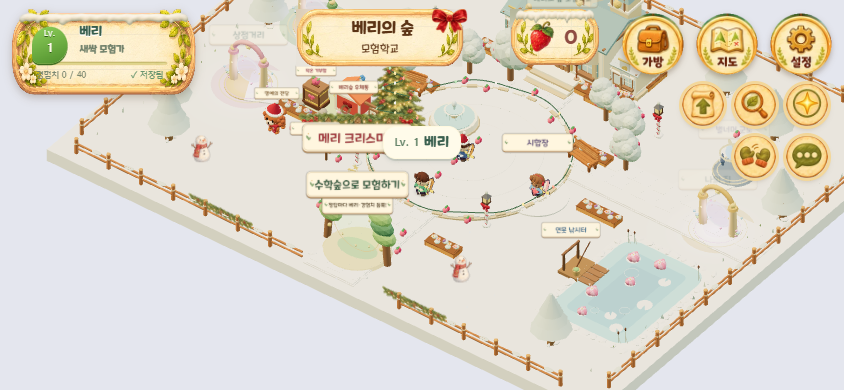
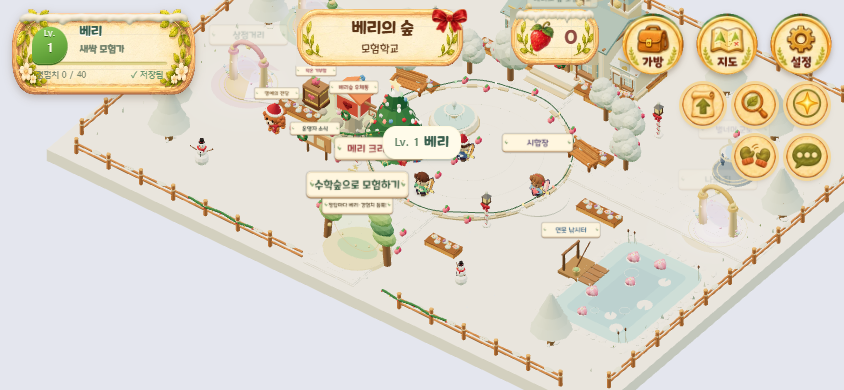
크리스마스 장식을 평평한 그림에서 3D 모형으로: 트리(눈 덮인 4단·오너먼트·입체 별·전구), 눈사람, 선물 상자, 화환, 가랜드
카메라가 움직이면 종이처럼 보이던 그림(스프라이트)을 모두 걷어냄.

Claude-Session: https://claude.ai/code/session_016DWjZzigAA7ykfC5rwQE2M

diff --git a/src/christmas-overlay.ts b/src/christmas-overlay.ts
@@ -17,7 +17,6 @@ export class ChristmasOverlay {
   private bulbs: T.MeshStandardMaterial[] = [];
   private snow: T.InstancedMesh;
   private dummy = new T.Object3D();
-  private treeDecor?: T.Group;
   private camera: T.Camera;
   private reduced = matchMedia('(prefers-reduced-motion: reduce)').matches;
 
@@ -67,20 +66,72 @@ export class ChristmasOverlay {
       }
       this.batch(accessory); this.attachments.push(accessory);
     });
-    const loader = new T.TextureLoader(), maps = new Map<string, T.Texture>();
-    const mapFor = (name: string) => {
-      let map = maps.get(name);
-      if (!map) { map = loader.load(`${import.meta.env.BASE_URL}art/christmas/${name}.webp`); map.colorSpace = T.SRGBColorSpace; this.textures.push(map); maps.set(name, map); }
-      return map;
+    // 2026-11-27: 평평한 그림(스프라이트) 대신 광장 나무와 같은 로우폴리 3D 모형으로 만들어요.
+    const flat = (color: number, emissive = 0, glow = 0) => {
+      const m = new T.MeshStandardMaterial({ color, roughness: .9, flatShading: true });
+      if (emissive) { m.emissive.setHex(emissive); m.emissiveIntensity = glow; }
+      this.materials.push(m); return m;
     };
-    const sprite = (name: string, x: number, y: number, z: number, w: number, h: number) => {
-      const material = new T.SpriteMaterial({ map: mapFor(name), transparent: true, alphaTest: .02, depthWrite: false, toneMapped: false }); this.materials.push(material);
-      const object = new T.Sprite(material); object.name = `christmas-${name}`; object.center.set(.5, 0);
-      object.position.set(x, y, z); object.scale.set(w, h, 1); this.root.add(object); return object;
+    const pine = flat(0x3f7a4a), pineDark = flat(0x2f6440), snowCap = flat(0xfbfbf7), bark = flat(0x7a5434);
+    const coal = flat(0x2b2a2e), carrot = flat(0xe8833a), scarfRed = flat(0xc23a45), scarfCream = flat(0xf6ead2);
+    const ornaments = [flat(0xd33c48, 0x5a0d14, .25), flat(0xf2c14e, 0x6a4a08, .35), flat(0x5f9fd8, 0x123a5e, .25), flat(0xf4f1ea)];
+    const giftColors = [flat(0xd9534f), flat(0x4f9a6a), flat(0x5b8fd6), flat(0xf0c14b), flat(0xb86fd0)];
+    const ribbonGold = flat(0xf6d77a), ribbonRed = flat(0xc8303e);
+    const place = (o: T.Object3D, x: number, y: number, z: number, parent: T.Object3D = this.root) => { o.position.set(x, y, z); parent.add(o); return o; };
+    const tree3d = (x: number, z: number, s: number) => {
+      const g = new T.Group(); g.name = 'christmas-tree'; place(g, x, .1, z); g.scale.setScalar(s);
+      this.mesh(g, new T.CylinderGeometry(.22, .3, .9, 7), bark, 0, .45, 0);
+      const tiers = [[1.55, 1.5, .9], [1.25, 1.35, 1.75], [.95, 1.2, 2.5], [.62, 1.05, 3.2]];
+      tiers.forEach(([r, h, y], i) => {
+        const cone = this.mesh(g, new T.ConeGeometry(r, h, 9), i % 2 ? pineDark : pine, 0, y, 0); cone.rotation.y = i * .35;
+        const cap = this.mesh(g, new T.ConeGeometry(r * .55, h * .38, 9), snowCap, 0, y + h * .33, 0); cap.rotation.y = i * .35;
+        const n = 5 + (3 - i) * 2;
+        for (let k = 0; k < n; k++) {
+          const a = k / n * Math.PI * 2 + i * .6, rr = r * .78;
+          ball(g, ornaments[(k + i) % ornaments.length], Math.cos(a) * rr, y - h * .28, Math.sin(a) * rr, .11);
+        }
+      });
+      return g;
+    };
+    const snowman3d = (x: number, z: number, s: number, turn: number) => {
+      const g = new T.Group(); g.name = 'christmas-snowman'; place(g, x, 0, z); g.scale.setScalar(s); g.rotation.y = turn;
+      ball(g, snowCap, 0, .55, 0, .58); ball(g, snowCap, 0, 1.3, 0, .42); ball(g, snowCap, 0, 1.92, 0, .3);
+      for (const side of [-1, 1]) ball(g, coal, side * .1, 2, .26, .04);
+      for (const y of [1.45, 1.28, 1.1]) ball(g, coal, 0, y, .41, .045);
+      const nose = this.mesh(g, new T.ConeGeometry(.055, .3, 6), carrot, 0, 1.93, .4); nose.rotation.x = Math.PI / 2;
+      const scarf = this.mesh(g, new T.TorusGeometry(.3, .08, 6, 14), scarfRed, 0, 1.66, 0); scarf.rotation.x = Math.PI / 2;
+      this.mesh(g, new T.BoxGeometry(.16, .42, .08), scarfRed, .18, 1.45, .25).rotation.z = -.18;
+      this.mesh(g, new T.BoxGeometry(.17, .05, .085), scarfCream, .19, 1.33, .25);
+      for (const side of [-1, 1]) {
+        const arm = this.mesh(g, new T.CylinderGeometry(.025, .035, .75, 5), bark, side * .62, 1.45, 0); arm.rotation.z = side * -1.05;
+        const twig = this.mesh(g, new T.CylinderGeometry(.015, .02, .22, 4), bark, side * .88, 1.68, 0); twig.rotation.z = side * -.3;
+      }
+      this.mesh(g, new T.CylinderGeometry(.24, .24, .05, 10), coal, 0, 2.19, 0);
+      this.mesh(g, new T.CylinderGeometry(.16, .17, .28, 10), coal, 0, 2.34, 0);
+      this.mesh(g, new T.CylinderGeometry(.171, .171, .06, 10), scarfRed, 0, 2.25, 0);
+      return g;
+    };
+    const gift3d = (x: number, z: number, w: number, h: number, d: number, color: number, turn: number) => {
+      const g = new T.Group(); g.name = 'christmas-gift'; place(g, x, 0, z); g.rotation.y = turn;
+      this.mesh(g, new T.BoxGeometry(w, h, d), giftColors[color % giftColors.length], 0, h / 2, 0);
+      const rib = color % 2 ? ribbonGold : ribbonRed;
+      this.mesh(g, new T.BoxGeometry(w + .02, h + .02, d * .18), rib, 0, h / 2, 0);
+      this.mesh(g, new T.BoxGeometry(w * .18, h + .02, d + .02), rib, 0, h / 2, 0);
+      for (const side of [-1, 1]) { const loop = this.mesh(g, new T.TorusGeometry(.15 * w, .03, 5, 10), rib, side * .13 * w, h + .06, 0); loop.rotation.y = Math.PI / 2; loop.rotation.z = side * .5; }
+      return g;
+    };
+    const wreath3d = (x: number, y: number, z: number, size: number, parent: T.Object3D = this.root) => {
+      const g = new T.Group(); g.name = 'christmas-wreath'; place(g, x, y, z, parent); g.scale.setScalar(size);
+      this.mesh(g, new T.TorusGeometry(.36, .13, 7, 16), pine);
+      for (let k = 0; k < 10; k++) { const a = k / 10 * Math.PI * 2; ball(g, k % 2 ? ornaments[0] : pineDark, Math.cos(a) * .36, Math.sin(a) * .36, .1, k % 2 ? .06 : .09); }
+      for (const side of [-1, 1]) ball(g, red, side * .11, -.36, .14, .1, .07, .05).rotation.z = side * .4;
+      ball(g, red, 0, -.36, .16, .05);
+      return g;
     };
     const garland = (x: number, y: number, z: number, width: number, parent: T.Object3D = this.root) => {
-      const material = new T.MeshBasicMaterial({ map: mapFor('garland'), transparent: true, alphaTest: .04, depthWrite: false, side: T.DoubleSide, toneMapped: false }); this.materials.push(material);
-      this.mesh(parent, new T.PlaneGeometry(width, width / 6.4), material, x, y, z).name = 'christmas-garland';
+      const pts = Array.from({ length: 25 }, (_, i) => { const s = i / 24; return new T.Vector3(x - width / 2 + s * width, y - Math.sin(s * Math.PI * 2) ** 2 * .18, z); });
+      const rope = this.mesh(parent, new T.TubeGeometry(new T.CatmullRomCurve3(pts), 48, .09, 6, false), pine); rope.name = 'christmas-garland';
+      pts.forEach((pt, i) => { if (i % 3 === 0) ball(parent, i % 2 ? ornaments[1] : ornaments[0], pt.x, pt.y - .06, pt.z + .08, .06); });
     };
     const bow = (x: number, y: number, z: number, size: number) => {
       for (const side of [-1, 1]) {
@@ -105,26 +156,24 @@ export class ChristmasOverlay {
       bow(x, 2.05, z + .17, .8);
     }
     if (options.market) {
-      for (const shop of MARKET_SHOPS) sprite('wreath', shop.x, 1.35, shop.z + 1.95 * MARKET_SCALE, .85, .85);
-      sprite('wreath', -14.5, 1.8, 11.75, 1.05, 1.05);
+      for (const shop of MARKET_SHOPS) wreath3d(shop.x, 1.35, shop.z + 1.95 * MARKET_SCALE, .95);
+      wreath3d(-14.5, 1.8, 11.75, 1.15);
     } else {
-      sprite('tree', -4.9, .25, 4.8, 4.8, 7.2);
-      // Match the sprite's camera-facing up direction, including its illustrated star.
-      const treeDecor = this.treeDecor = new T.Group(); treeDecor.name = 'christmas-tree-lights'; treeDecor.position.set(-4.9, .25, 4.8); treeDecor.quaternion.copy(options.camera.quaternion); this.root.add(treeDecor);
-      sprite('gifts', -4.6, .27, 6, 2.7, 1.55); sprite('gifts', -6.5, .25, 4.6, 1.6, .95);
-      sprite('wreath', POSTBOX_SPOT.x + .2, 2.35, POSTBOX_SPOT.z + 1.25, .8, .8);
-      sprite('wreath', VILLAGE_SPOTS.notice.x - 1.1, 1.65, VILLAGE_SPOTS.notice.z + .38, .9, .9);
-      sprite('wreath', 0, 1.7, -8.95, 1.25, 1.25);
-      sprite('snowman', -15.3, .12, 14.9, 1.6, 2); sprite('snowman', 8.5, .12, 14.5, 1.6, 2);
+      tree3d(-4.9, 4.8, 1.85);
+      const treeDecor = new T.Group(); treeDecor.name = 'christmas-tree-lights'; treeDecor.position.set(-4.9, .1, 4.8); treeDecor.scale.setScalar(1.85); this.root.add(treeDecor);
+      [[-3.3, 6.1, .7, .55, .6, 0, .3], [-4.2, 6.9, .55, .45, .55, 1, -.4], [-2.6, 5.2, .5, .7, .5, 2, .8], [-6.6, 5.9, .65, .5, .6, 3, .2], [-5.6, 6.8, .45, .35, .45, 4, -.6]].forEach(([gx, gz, w, h, d, c, r]) => gift3d(gx, gz, w, h, d, c, r));
+      wreath3d(POSTBOX_SPOT.x + .2, 2.35, POSTBOX_SPOT.z + 1.25, .9);
+      wreath3d(VILLAGE_SPOTS.notice.x - 1.1, 1.65, VILLAGE_SPOTS.notice.z + .38, 1);
+      wreath3d(0, 1.7, -8.95, 1.35);
+      snowman3d(-15.3, 14.9, 1.45, .4); snowman3d(8.5, 14.5, 1.35, -.5);
       for (const x of [-10, 8]) garland(x, 1.05, 19.6, 6);
       // A low loop follows the stone ring without crossing signs or walking lanes.
       strand(Array.from({ length: 129 }, (_, i) => { const a = i / 128 * Math.PI * 2; return new T.Vector3(Math.cos(a) * 7.7, .62 + Math.sin(a * 8) * .12, 2 + Math.sin(a) * 7.7); }), low ? 8 : 2);
-      strand(Array.from({ length: 129 }, (_, i) => { const t = i / 128, a = t * Math.PI * 8, r = 2.05 * (1 - t) + .12; return new T.Vector3(Math.cos(a) * r, .55 + t * 5.9, .18 + Math.sin(a) * r * .18); }), low ? 8 : 3, treeDecor);
+      strand(Array.from({ length: 129 }, (_, i) => { const t = i / 128, a = t * Math.PI * 9, r = 1.45 * (1 - t) + .12; return new T.Vector3(Math.cos(a) * r, .55 + t * 3.15, Math.sin(a) * r); }), low ? 8 : 3, treeDecor);
       const starShape = new T.Shape();
       for (let i = 0; i < 10; i++) { const a = i * Math.PI / 5 + Math.PI / 2, r = i % 2 ? .2 : .44; if (!i) starShape.moveTo(Math.cos(a) * r, Math.sin(a) * r); else starShape.lineTo(Math.cos(a) * r, Math.sin(a) * r); } starShape.closePath();
       const gold = this.material(0xffdf84); gold.emissive.setHex(0xffbd47); gold.emissiveIntensity = 1.4; gold.side = T.DoubleSide;
-      const star = this.mesh(treeDecor, new T.ShapeGeometry(starShape), gold, 0, 6.85, .08); star.name = 'christmas-treetop-star';
-      const halo = sprite('star-glow', 0, 6.85, .12, 2.2, 2.2); halo.center.set(.5, .5); treeDecor.add(halo);
+      const star = this.mesh(treeDecor, new T.ExtrudeGeometry(starShape, { depth: .12, bevelEnabled: true, bevelSize: .03, bevelThickness: .03, bevelSegments: 1 }), gold, 0, 3.85, -.06); star.name = 'christmas-treetop-star'; star.scale.setScalar(.75);
     }
     [0xf55c55, 0xffc34f, 0x69b875, 0xffeed1].forEach((color, index) => {
       const material = this.material(color); material.emissive.setHex(color); material.emissiveIntensity = 1.15; this.bulbs.push(material);
@@ -141,7 +190,7 @@ export class ChristmasOverlay {
       this.cleanups.push(options.sign(this.root));
       const plaque = this.root.getObjectByName('표지판: 메리 크리스마스')!;
       garland(0, 1.25, .04, 7.1, plaque);
-      for (const side of [-1, 1]) { const ribbon = sprite('bow', side * 3, .85, .08, .85, .6); plaque.add(ribbon); }
+      for (const side of [-1, 1]) wreath3d(side * 3.05, .2, .12, .55, plaque);
     }
     const snowMaterial = new T.MeshBasicMaterial({ color: 0xfffcf5, transparent: true, opacity: .8, depthWrite: false }); this.materials.push(snowMaterial);
     const snowGeometry = new T.SphereGeometry(1, 5, 3); this.geometries.add(snowGeometry);
@@ -193,7 +242,6 @@ export class ChristmasOverlay {
     walk(scene);
   }
   update(time: number, player: T.Vector3) {
-    this.treeDecor?.quaternion.copy(this.camera.quaternion);
     if (!this.low && !this.reduced) this.bulbs.forEach((m, i) => { m.emissiveIntensity = 1.1 + Math.sin(time * 1.35 + i * 1.6) * .28; });
     if (this.reduced) return;
     for (let i = 0; i < this.snow.count; i++) {
